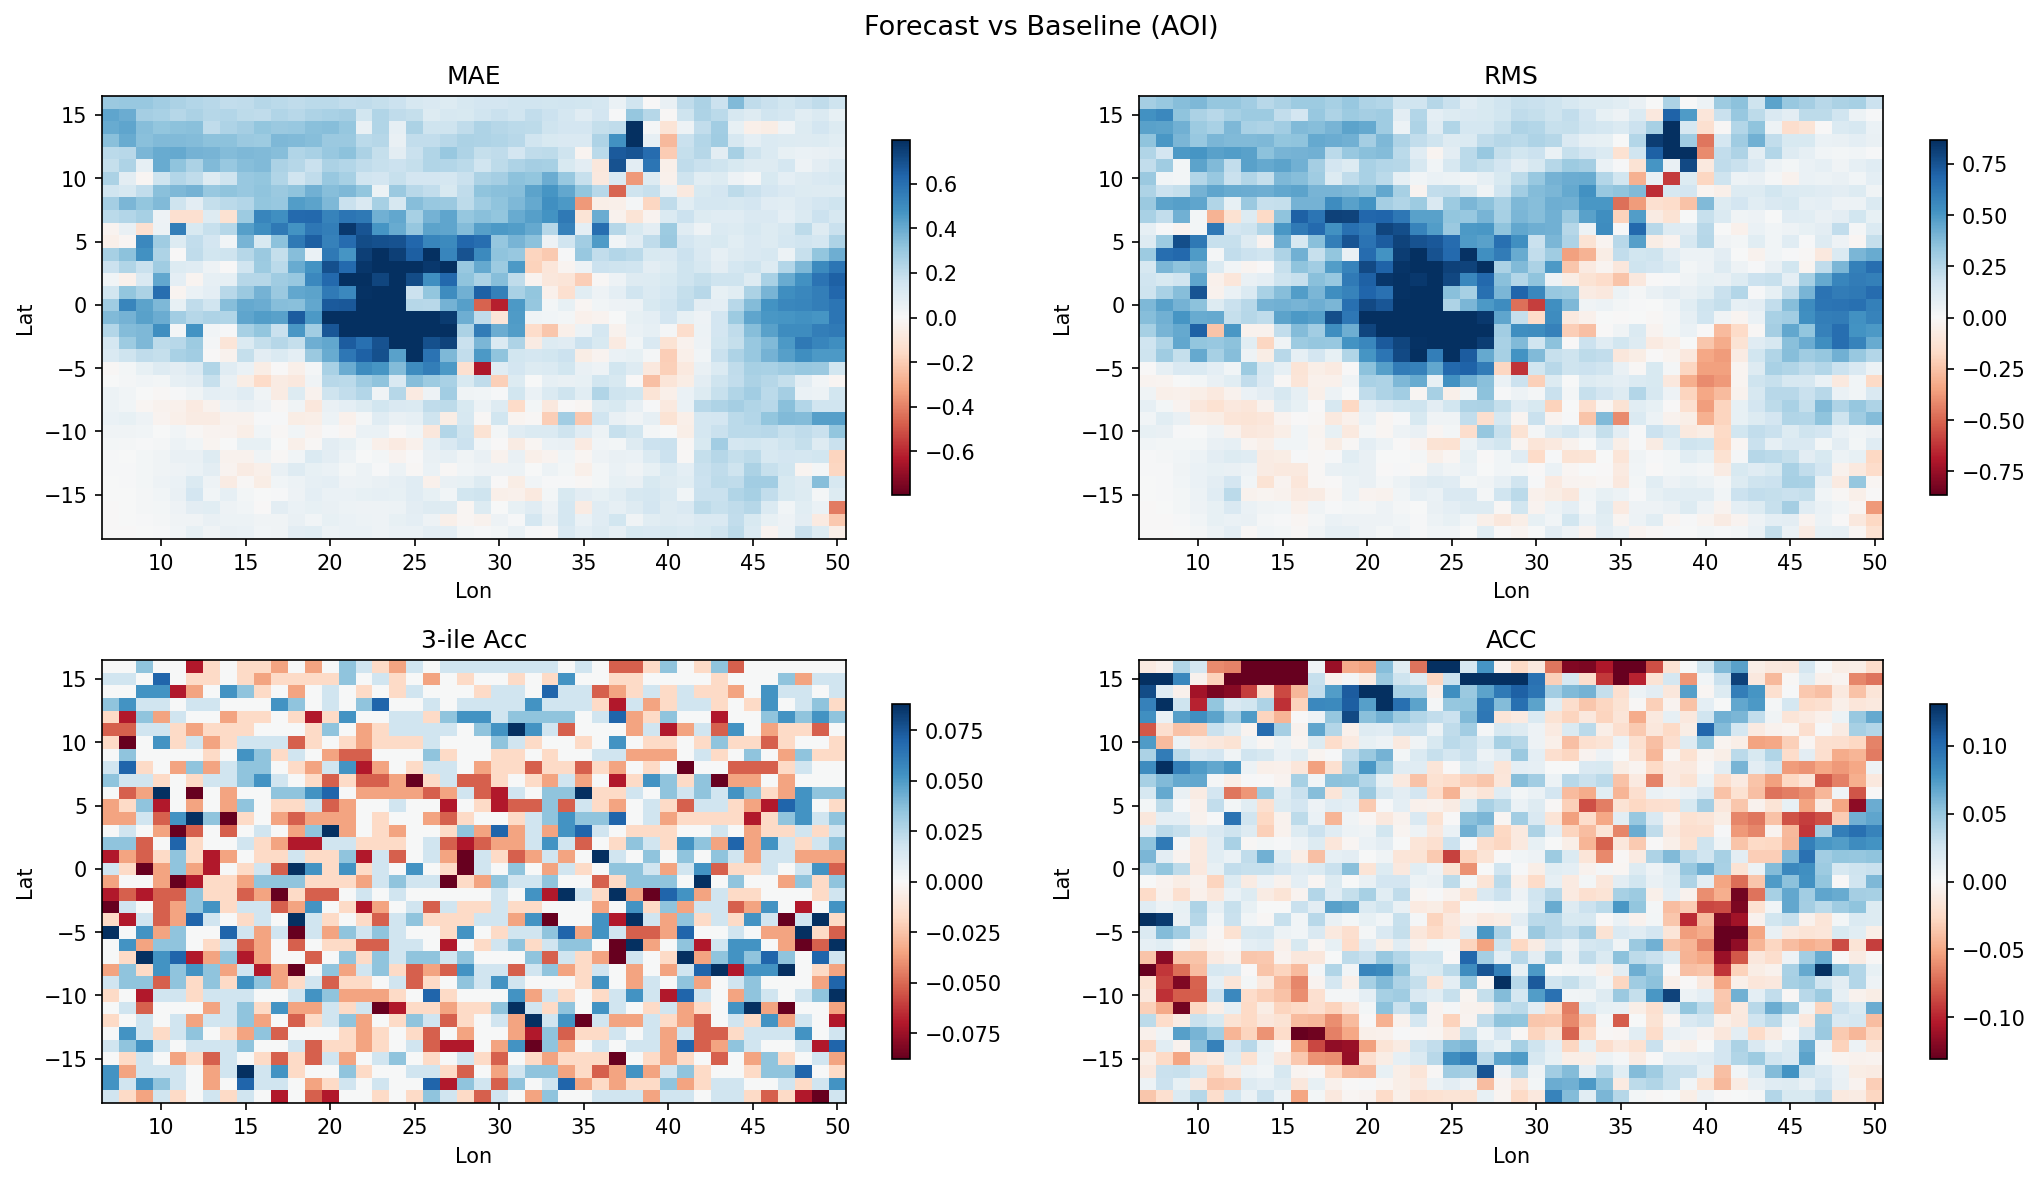
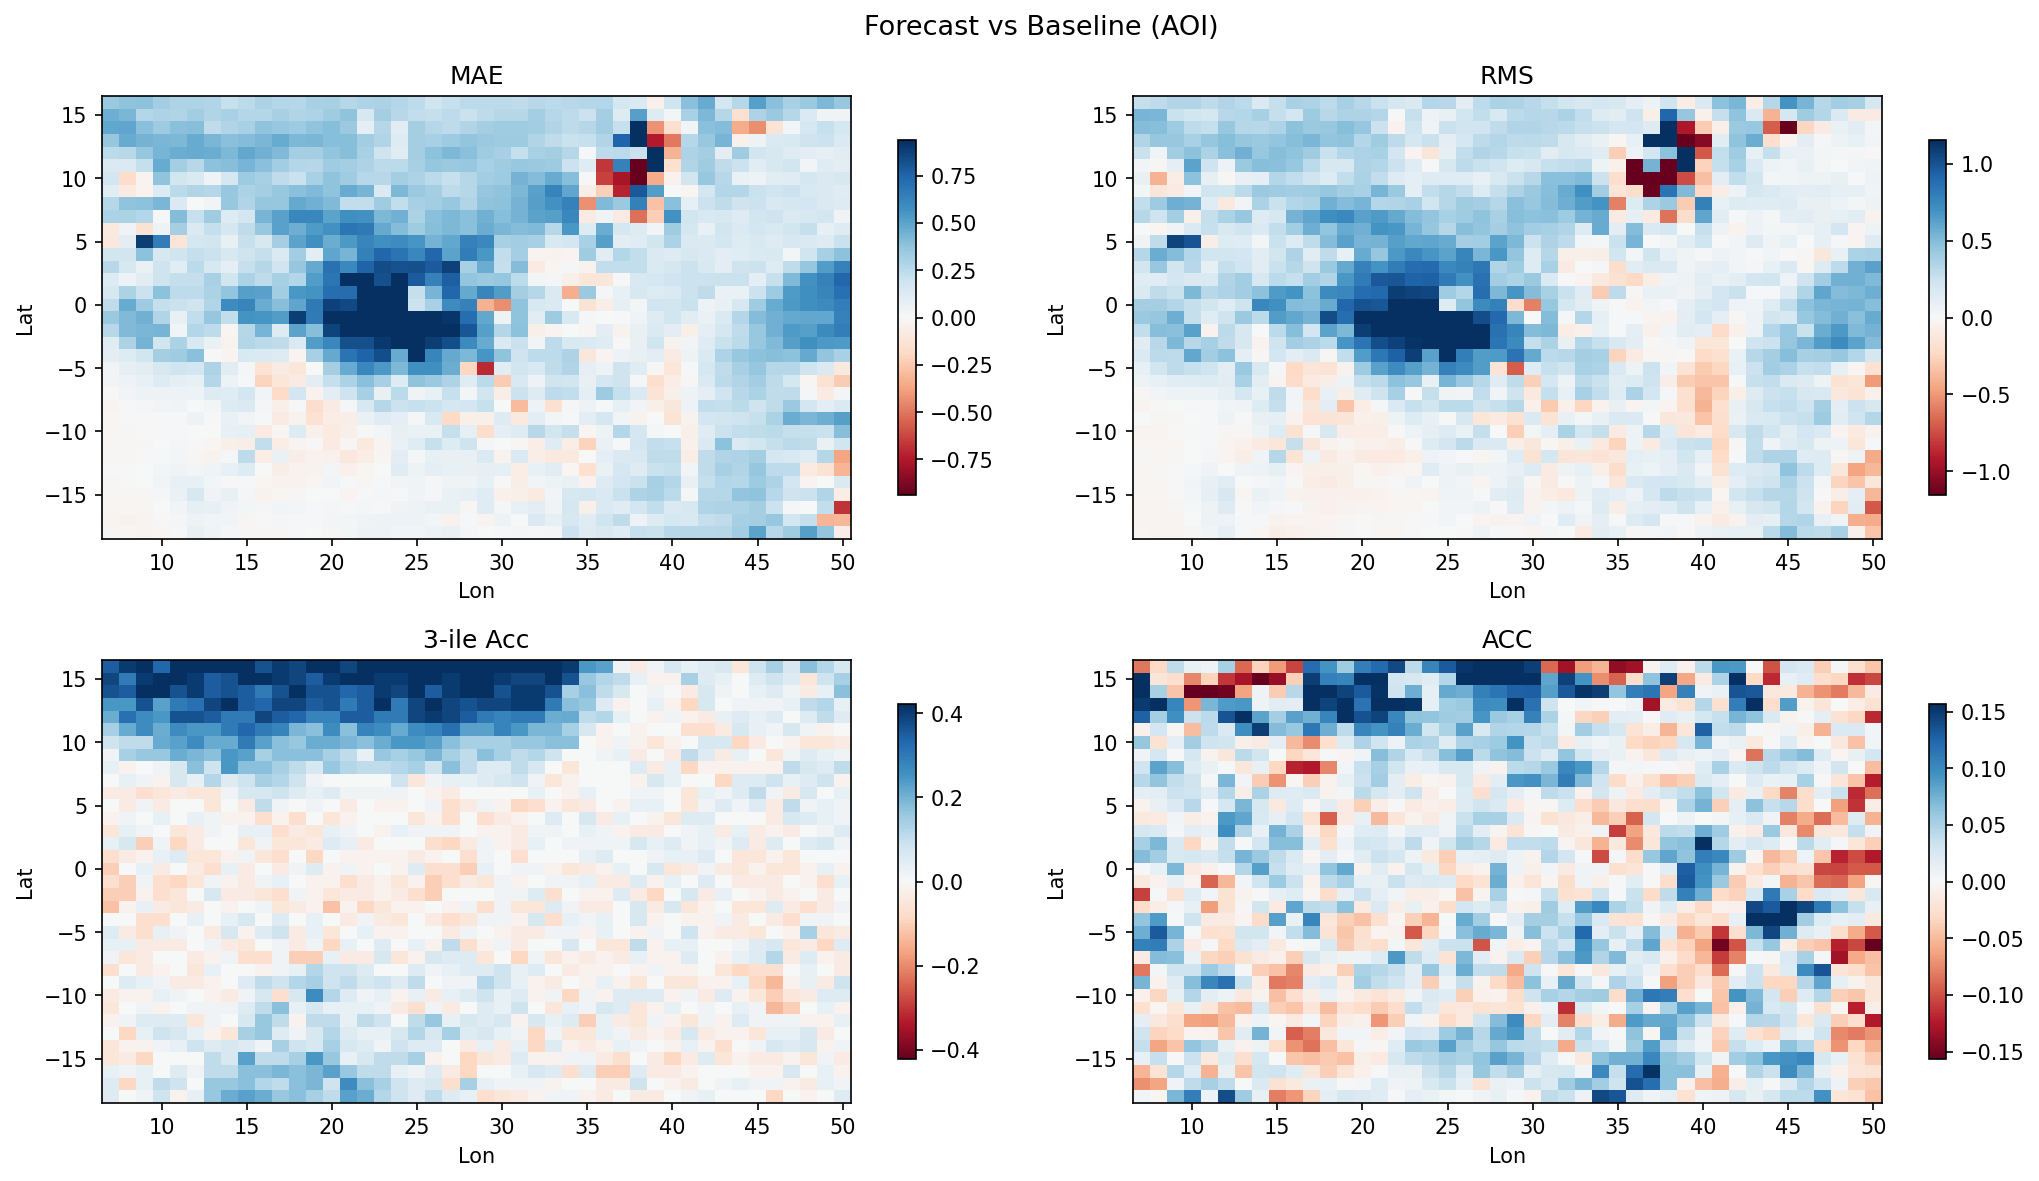
local training + residual prediction

diff --git a/train.py b/train.py
@@ -6,7 +6,9 @@ from tqdm import tqdm
 import numpy as np
 import torch
 import torch.nn as nn
+import torch.nn.functional as F
 from torch.utils.data import Dataset, DataLoader, Subset
+from util import AOI_ONLY
 
 
 class PrecipDataset(Dataset):
@@ -16,6 +18,8 @@ class PrecipDataset(Dataset):
         self.X = torch.tensor(data["X_input"], dtype=torch.float32)
         self.y = torch.tensor(data["y_obs"], dtype=torch.float32)
         self.p = torch.tensor(data["preds"], dtype=torch.float32)
+        self.n_y = int(data["n_y"])
+        self.n_x = int(data["n_x"])
         print(f"loaded {len(self.y):,} samples")
 
     def __len__(self):
@@ -28,16 +32,20 @@ class PrecipDataset(Dataset):
 class Senate(nn.Module):
     def __init__(self):
         super().__init__()
-        self.net = nn.Sequential(
+        self.shared = nn.Sequential(
             nn.Linear(13, 32),
             nn.ReLU(),
             nn.Linear(32, 16),
             nn.ReLU(),
-            nn.Linear(16, 7),
         )
+        self.weight_head = nn.Linear(16, 7)
+        self.resid_head = nn.Linear(16, 1)
 
     def forward(self, x):
-        return self.net(x)
+        h = self.shared(x)
+        weights = self.weight_head(h)
+        residual = self.resid_head(h).squeeze(-1)
+        return weights, residual
 
 
 N_QUANTILES = 3
@@ -79,13 +87,15 @@ def compute_metrics(pred, obs, months):
 
 
 def loaders():
-    dataset = PrecipDataset("data/ml_data.npz")
+    data_path = "data/ml_data_aoi.npz" if AOI_ONLY else "data/ml_data.npz"
+    dataset = PrecipDataset(data_path)
 
     print("splitting dataset...")
     train_timesteps = 300
     test_timesteps = 57
-    train_size = train_timesteps * 179 * 360
-    test_size = test_timesteps * 179 * 360
+    n_spatial = dataset.n_y * dataset.n_x
+    train_size = train_timesteps * n_spatial
+    test_size = test_timesteps * n_spatial
     train_set = Subset(dataset, range(train_size))
     test_set = Subset(dataset, range(train_size, train_size + test_size))
     print(f"train: {train_size:,}  test: {test_size:,}")
@@ -93,7 +103,18 @@ def loaders():
     train_loader = DataLoader(train_set, batch_size=2048, shuffle=True)
     test_loader = DataLoader(test_set, batch_size=2048, shuffle=False)
 
-    return train_loader, test_loader, train_timesteps, test_timesteps
+    return (
+        train_loader,
+        test_loader,
+        train_timesteps,
+        test_timesteps,
+        dataset.n_y,
+        dataset.n_x,
+    )
+
+
+def eval_loss(mae, acc, nile_acc, alpha=0.4, beta=0.4, gamma=0.2):
+    return alpha * mae - beta * acc - gamma * nile_acc
 
 
 def train():
@@ -101,13 +122,15 @@ def train():
     optimizer = torch.optim.Adam(model.parameters(), lr=1e-3)
     loss_fn = nn.MSELoss()
 
-    EPOCHS = 20
+    EPOCHS = 100 if AOI_ONLY else 20
     print(f"\nstarting training for {EPOCHS} epochs...")
-    best_acc = -np.inf
+    best_eval = np.inf
 
-    train_loader, test_loader, train_timesteps, test_timesteps = loaders()
-    grid_shape = (test_timesteps, 179, 360)
+    train_loader, test_loader, train_timesteps, test_timesteps, n_y, n_x = loaders()
+    grid_shape = (test_timesteps, n_y, n_x)
     test_months = np.arange(train_timesteps, train_timesteps + test_timesteps) % 12
+
+    model_path = "models/new_senate_aoi.pt" if AOI_ONLY else "models/new_senate.pt"
 
     for epoch in range(EPOCHS):
         model.train()
@@ -116,8 +139,9 @@ def train():
             train_loader, desc=f"epoch {epoch + 1}/{EPOCHS}"
         ):
             optimizer.zero_grad()
-            weights = model(X_batch)
-            y_pred = (weights * p_batch).sum(dim=1)
+            weights, residual = model(X_batch)
+            y_pred = (weights * p_batch).sum(dim=1) + residual
+            y_pred = F.relu(y_pred)
             loss = loss_fn(y_pred, y_batch)
             loss.backward()
             optimizer.step()
@@ -127,8 +151,9 @@ def train():
         all_preds, all_obs, all_baseline = [], [], []
         with torch.no_grad():
             for X_batch, y_batch, p_batch in test_loader:
-                weights = model(X_batch)
-                y_pred = (weights * p_batch).sum(dim=1)
+                weights, residual = model(X_batch)
+                y_pred = (weights * p_batch).sum(dim=1) + residual
+                y_pred = F.relu(y_pred)
                 baseline = p_batch.mean(dim=1)
                 all_preds.append(y_pred.numpy())
                 all_obs.append(y_batch.numpy())
@@ -154,11 +179,22 @@ def train():
         print(f"  {'ACC':12} {fc_acc:10.4f} {bl_acc:10.4f}")
         print(f"  {f'{N_QUANTILES}-ile Acc':12} {fc_nile:10.4f} {bl_nile:10.4f}")
 
-        if fc_acc > best_acc:
-            best_acc = fc_acc
-            torch.save(model.state_dict(), "models/senate.pt")
-            print("  -> saved best state to models/senate.pt [used ACC for validation]")
+        # normalise inputs to hybrid score
+        acc_n = fc_acc * bl_mae / bl_acc
+        nile_n = fc_nile * bl_mae / bl_nile
+
+        eval_score = eval_loss(fc_mae, acc_n, nile_n)
+
+        print(f"    [hybrid eval score: {eval_score:10.4f}]")
+
+        if eval_score < best_eval:
+            best_eval = eval_score
+            torch.save(model.state_dict(), model_path)
+            print(f"  -> saved best state to {model_path}")
+
+    print(f"    [best eval score: {best_eval:10.4f}]")
 
 
 if __name__ == "__main__":
     train()
+

diff --git a/predict.py b/predict.py
@@ -7,9 +7,14 @@ import numpy as np
 from torch.utils.data import DataLoader, Subset
 from train import Senate, PrecipDataset
 import xarray as xr
+from util import AOI_ONLY
+
+data_path = "data/ml_data_aoi.npz" if AOI_ONLY else "data/ml_data.npz"
+model_path = "models/senate_aoi.pt" if AOI_ONLY else "models/senate.pt"
+output_path = "data/test_predictions_aoi.nc" if AOI_ONLY else "data/test_predictions.nc"
 
 model = Senate()
-model.load_state_dict(torch.load("models/senate.pt"))
+model.load_state_dict(torch.load(model_path, map_location="cpu"))
 model.eval()
 
 
@@ -26,50 +31,81 @@ def encode(month, y, x, ginis):
     return torch.tensor(coords + list(ginis), dtype=torch.float32)
 
 
-def get_weights(month, y, x, ginis):
+def get_weights_and_residual(month, y, x, ginis):
     x_input = encode(month, y, x, ginis).unsqueeze(0)
+
     with torch.no_grad():
-        weights = model(x_input).squeeze(0).numpy()
-    return weights
+        weights, residual = model(x_input)
+
+    return weights.squeeze(0).numpy(), residual.squeeze().item()
 
 
 def forecast(month, y, x, nmme_preds, ginis):
-    weights = get_weights(month, y, x, ginis)
-    return np.dot(weights, nmme_preds)
+    weights, residual = get_weights_and_residual(month, y, x, ginis)
+    raw_pred = np.dot(weights, nmme_preds) + residual
+    return max(0.0, raw_pred)
 
 
-dataset = PrecipDataset("data/ml_data.npz")
-train_size = 300 * 179 * 360
-test_size = 57 * 179 * 360
+dataset = PrecipDataset(data_path)
+n_y, n_x = dataset.n_y, dataset.n_x
+
+train_size = 300 * n_y * n_x
+test_size = 57 * n_y * n_x
+
 test_set = Subset(dataset, range(train_size, train_size + test_size))
 test_loader = DataLoader(test_set, batch_size=2048, shuffle=False)
 
 print("generating test period predictions...")
+
 all_preds = []
 all_obs = []
 all_baseline = []
 
 with torch.no_grad():
     for X_batch, y_batch, p_batch in test_loader:
-        weights = model(X_batch)
-        y_pred = (weights * p_batch).sum(dim=1)
+        weights, residual = model(X_batch)
+
+        residual = residual.squeeze(-1)
+        raw_pred = (weights * p_batch).sum(dim=1) + residual
+        y_pred = torch.relu(raw_pred)
+
         all_preds.append(y_pred.numpy())
         all_obs.append(y_batch.numpy())
         all_baseline.append(p_batch.mean(dim=1).numpy())
 
-all_preds = np.concatenate(all_preds).reshape(57, 179, 360)
-all_obs = np.concatenate(all_obs).reshape(57, 179, 360)
-all_baseline = np.concatenate(all_baseline).reshape(57, 179, 360)
+raw = np.load(data_path)
+Ys = raw["Ys"]
+Xs = raw["Xs"]
 
-Ys = np.arange(-89, 90, 1.0)
-Xs = np.arange(0, 360, 1.0)
+all_preds = np.concatenate(all_preds).reshape(57, n_y, n_x)
+all_obs = np.concatenate(all_obs).reshape(57, n_y, n_x)
+all_baseline = np.concatenate(all_baseline).reshape(57, n_y, n_x)
 
-preds_da = xr.DataArray(all_preds, dims=["time", "Y", "X"], coords={"Y": Ys, "X": Xs})
-obs_da = xr.DataArray(all_obs, dims=["time", "Y", "X"], coords={"Y": Ys, "X": Xs})
-baseline_da = xr.DataArray(
-    all_baseline, dims=["time", "Y", "X"], coords={"Y": Ys, "X": Xs}
+preds_da = xr.DataArray(
+    all_preds,
+    dims=["time", "Y", "X"],
+    coords={"Y": Ys, "X": Xs},
 )
 
-ds = xr.Dataset({"forecast": preds_da, "obs": obs_da, "baseline": baseline_da})
-ds.to_netcdf("data/test_predictions.nc")
-print("saved to data/test_predictions.nc")
+obs_da = xr.DataArray(
+    all_obs,
+    dims=["time", "Y", "X"],
+    coords={"Y": Ys, "X": Xs},
+)
+
+baseline_da = xr.DataArray(
+    all_baseline,
+    dims=["time", "Y", "X"],
+    coords={"Y": Ys, "X": Xs},
+)
+
+ds = xr.Dataset(
+    {
+        "forecast": preds_da,
+        "obs": obs_da,
+        "baseline": baseline_da,
+    }
+)
+
+ds.to_netcdf(output_path)
+print(f"saved to {output_path}")

diff --git a/prep.py b/prep.py
@@ -4,6 +4,7 @@ master.nc + era5_ppt.nc -> .npz file for ML
 
 import xarray as xr
 import numpy as np
+from util import AOI_ONLY, Y_MIN, Y_MAX, X_MIN, X_MAX
 
 obs = xr.open_dataset("data/era5_ppt.nc")["tp"]
 master = xr.open_dataset("data/master.nc")
@@ -21,17 +22,36 @@ models = [
 ]
 
 T = 357
-Ys = pred.Y.values[1:-1]  # ignore poles bc gfdl-spear has NaNs there
-Xs = pred.X.values
+all_Ys = pred.Y.values[1:-1]  # ignore poles bc gfdl-spear has NaNs there
+all_Xs = pred.X.values
+
+if AOI_ONLY:
+    y_mask = (all_Ys >= Y_MIN) & (all_Ys <= Y_MAX)
+    x_mask = (all_Xs >= X_MIN) & (all_Xs <= X_MAX)
+    Ys = all_Ys[y_mask]
+    Xs = all_Xs[x_mask]
+    y_slice = slice(
+        np.where(y_mask)[0][0] + 1, np.where(y_mask)[0][-1] + 2
+    )  # +1 offset for pole removal
+    x_slice = slice(np.where(x_mask)[0][0], np.where(x_mask)[0][-1] + 1)
+else:
+    Ys = all_Ys
+    Xs = all_Xs
+    y_slice = slice(1, -1)
+    x_slice = slice(None)
+
 months = (np.arange(T) + 3) % 12
 
-obs_np = obs.values[3:, 1:-1, :]
-pred_np = pred.sel(model=models).values[:-3, 1:-1, :, :]
-gini_np = gini.sel(model=models).values[:-3, 1:-1, :, :]
+obs_np = obs.values[3:, y_slice, x_slice]
+pred_np = pred.sel(model=models).values[:-3, y_slice, x_slice, :]
+gini_np = gini.sel(model=models).values[:-3, y_slice, x_slice, :]
 gini_np = np.nan_to_num(gini_np)
 
+n_y = len(Ys)
+n_x = len(Xs)
+
 t_idx, y_idx, x_idx = np.meshgrid(
-    np.arange(T), np.arange(179), np.arange(360), indexing="ij"
+    np.arange(T), np.arange(n_y), np.arange(n_x), indexing="ij"
 )
 t_idx = t_idx.ravel()
 y_idx = y_idx.ravel()
@@ -59,6 +79,9 @@ ginis = gini_np.reshape(-1, 7).astype(np.float32)
 
 X_input = np.hstack([X_input, ginis])
 
-np.savez("data/ml_data.npz", X_input=X_input, y_obs=y_obs, preds=preds)
-print(f"saved {len(y_obs)} samples")
+out_path = "data/ml_data_aoi.npz" if AOI_ONLY else "data/ml_data.npz"
+np.savez(
+    out_path, X_input=X_input, y_obs=y_obs, preds=preds, n_y=n_y, n_x=n_x, Ys=Ys, Xs=Xs
+)
+print(f"saved {len(y_obs)} samples to {out_path}")
 

diff --git a/analyse.py b/analyse.py
@@ -9,9 +9,9 @@ Calculate:
 import xarray as xr
 import numpy as np
 import matplotlib.pyplot as plt
+from util import AOI_ONLY, Y_MIN, Y_MAX, X_MIN, X_MAX
 
-Y_MIN, Y_MAX, X_MIN, X_MAX = -18, 16, 7, 50
-PRED_PATH = "data/test_predictions.nc"
+PRED_PATH = "data/test_predictions_aoi.nc" if AOI_ONLY else "data/test_predictions.nc"
 ds = xr.open_dataset(PRED_PATH)
 
 
@@ -134,22 +134,22 @@ def plot_diff_metrics(fc_metrics, bl_metrics, label, filename):
     print(f"Saved {filename}")
 
 
-fc_metrics_global = evaluate(forecast_global, obs_global, "Forecast (global)")
-bl_metrics_global = evaluate(baseline_global, obs_global, "Baseline (global)")
-plot_metrics(fc_metrics_global, "Forecast (global)", "plots/forecast_global.png")
-plot_metrics(bl_metrics_global, "Baseline (global)", "plots/baseline_global.png")
+if not AOI_ONLY:
+    fc_metrics_global = evaluate(forecast_global, obs_global, "Forecast (global)")
+    bl_metrics_global = evaluate(baseline_global, obs_global, "Baseline (global)")
+    plot_metrics(fc_metrics_global, "Forecast (global)", "plots/forecast_global.png")
+    plot_metrics(bl_metrics_global, "Baseline (global)", "plots/baseline_global.png")
+    plot_diff_metrics(
+        fc_metrics_global,
+        bl_metrics_global,
+        "Forecast vs Baseline (global)",
+        "plots/diff_global.png",
+    )
 
 fc_metrics_aoi = evaluate(forecast_aoi, obs_aoi, "Forecast (AOI)")
 bl_metrics_aoi = evaluate(baseline_aoi, obs_aoi, "Baseline (AOI)")
 plot_metrics(fc_metrics_aoi, "Forecast (AOI)", "plots/forecast_aoi.png")
 plot_metrics(bl_metrics_aoi, "Baseline (AOI)", "plots/baseline_aoi.png")
-
-plot_diff_metrics(
-    fc_metrics_global,
-    bl_metrics_global,
-    "Forecast vs Baseline (global)",
-    "plots/diff_global.png",
-)
 plot_diff_metrics(
     fc_metrics_aoi, bl_metrics_aoi, "Forecast vs Baseline (AOI)", "plots/diff_aoi.png"
 )

diff --git a/util.py b/util.py
@@ -1,5 +1,3 @@
-import xarray as xr
-
-ds = xr.open_dataset("sample.nc")
-print(ds)
+Y_MIN, Y_MAX, X_MIN, X_MAX = -18, 16, 7, 50
+AOI_ONLY = True
 
